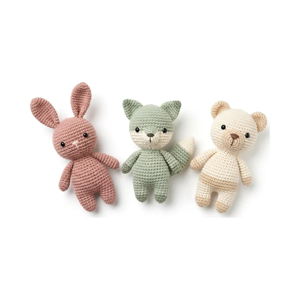
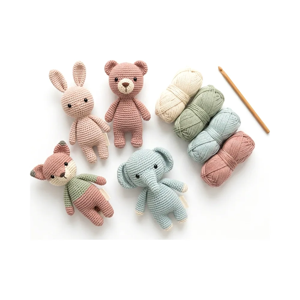
Listino: stato lotto e LISTINO.md

Changed region(s): [[0.09, 0.18, 0.9, 0.81]]

diff --git a/automation/listino/LISTINO.md b/automation/listino/LISTINO.md
@@ -71,7 +71,7 @@ Generato da `automation/listino/genera_md.py` da `grezzo.json`. Guida e step: `G
 | 63 | - | habit | 10 | Tracker di lettura - Pagina di diario STAMPABILE - Pagina di pianificazione - Diario del l | 1,18 EUR | [1488063594](https://www.etsy.com/it/listing/1488063594/tracker-di-lettura-pagina-di-diario) |
 | 64 | - | matrimonio | 10 | Modello di giornale per matrimonio con foto, modello di giornale per matrimonio, programma | 9,14 EUR | [1740912016](https://www.etsy.com/it/listing/1740912016/modello-di-giornale-di-nozze-con-foto) |
 | 65 | - | pasti | 10 | Pacchetto completo stampabile con download immediato di 29 set di etichette Craftologist p | 37,69 EUR | [1710629032](https://www.etsy.com/it/listing/1710629032/stampabile-download-immediato-pacchetto) |
-| 66 | - | uncinetto | 10 | Il gioco di memoria ORIGINALE della tartaruga *SCHEMA* PDF in inglese ORIGINALE ricamato d | 8,78 EUR | [1431534218](https://www.etsy.com/it/listing/1431534218/il-gioco-di-memoria-originale-della) |
+| 66 | fatto | uncinetto | 10 | Il gioco di memoria ORIGINALE della tartaruga *SCHEMA* PDF in inglese ORIGINALE ricamato d | 8,78 EUR | [1431534218](https://www.etsy.com/it/listing/1431534218/il-gioco-di-memoria-originale-della) |
 | 67 | - | cv | 10 | Modello di curriculum pulito per Google Docs, Word e Pages, curriculum minimalista per dir | 2,44 EUR | [1409950382](https://www.etsy.com/it/listing/1409950382/modello-di-curriculum-pulito-per-google) |
 | 68 | - | planner | 11 | Agenda digitale giornaliera, agenda giornaliera 2027, agenda scaricabile, agenda digitale, | 3,56 EUR | [4366138518](https://www.etsy.com/it/listing/4366138518/agenda-digitale-giornaliera-agenda) |
 | 69 | - | budget | 11 | Pianificatore di budget digitale: monitoraggio finanziario, compatibile con GoodNotes (ver | 1,71 EUR | [1191641738](https://www.etsy.com/it/listing/1191641738/pianificatore-di-budget-digitale) |

diff --git a/automation/listino/ULTIMO_LOTTO.md b/automation/listino/ULTIMO_LOTTO.md
@@ -1,4 +1,4 @@
-# Ultimo lotto (11/11/2026 18:39)
+# Ultimo lotto (11/11/2026 18:40)
 
-- schemi-uncinetto-elegante-in-pdf-stampabile-2728
-  - IT https://cialdecompatibili-netizen.github.io/prodottidigitali3/negozio/schemi-uncinetto-elegante-in-pdf-stampabile-2728/
+- schemi-uncinetto-elegante-in-pdf-stampabile-4218
+  - IT https://cialdecompatibili-netizen.github.io/prodottidigitali3/negozio/schemi-uncinetto-elegante-in-pdf-stampabile-4218/
